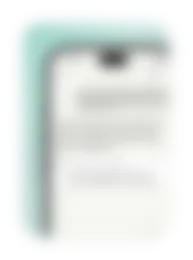
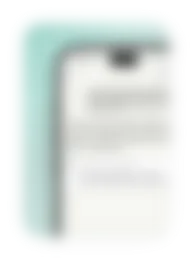
Tool Use thumbnail: the phone further right, its right curve off the cover; two swaps
Rest framing x 0.38 -> 0.31 (Khalil's pick). Progressive Blur and CMS
Generation swap (third, fourth), Change Icon and Claude Desktop swap (fifth,
sixth). Tool Use's stills redone.

Claude-Session: https://claude.ai/code/session_01KWunyGjQtk3sCnGrUXUHPS

Changed region(s): [[0.1865, 0.1538, 0.3731, 0.9231], [0.4663, 0.1846, 0.7461, 0.2769]]

diff --git a/src/content/work/research.md b/src/content/work/research.md
@@ -15,7 +15,7 @@ cover:
     mp4: images/work/research-9.mp4
     poster: images/work/research-9.jpg
     start: 29
-    rest: [0.38, 0.3, 1.6]   # thumbnail: at 0:29, the phone's top-left corner with teal around it and the Slack tool call; its right side runs off the cover
+    rest: [0.31, 0.3, 1.6]   # thumbnail: at 0:29, the phone's top-left corner with teal around it and the Slack tool call; its right side (curve too) runs off the cover
     # [seconds, x, y, zoom]: held shots on each step (typing the request, the
     # reply, each tool call, the summary), with the whole phone at the start
     # and end so the loop is seamless.

diff --git a/src/content/work/claude-desktop.md b/src/content/work/claude-desktop.md
@@ -3,7 +3,7 @@ title: Claude Desktop
 summary: Placeholder summary. Replace with a one-line description of the project.
 role: Product designer
 year: "2026"
-order: 5
+order: 6
 cover:
   aspect: 1.25   # 771 × 617: wide, for landscape footage
   shader: gradient

diff --git a/src/content/work/change-icon.md b/src/content/work/change-icon.md
@@ -3,7 +3,7 @@ title: Change Icon
 summary: Placeholder summary. Replace with a one-line description of the project.
 role: Product designer
 year: "2023"
-order: 6
+order: 5
 cover:
   aspect: 0.684   # 422 × 617, like the other phone covers
   shader: gradient

diff --git a/src/content/work/progressive-blur.md b/src/content/work/progressive-blur.md
@@ -3,7 +3,7 @@ title: Progressive Blur
 summary: Placeholder summary. Replace with a one-line description of the project.
 role: Product designer
 year: "2024"
-order: 4
+order: 3
 cover:
   aspect: 1.25   # 771 × 617: wide, for desktop
   shader: gradient

diff --git a/src/content/work/cms-generation.md b/src/content/work/cms-generation.md
@@ -3,7 +3,7 @@ title: CMS Generation
 summary: Placeholder summary. Replace with a one-line description of the project.
 role: Product designer
 year: "2025"
-order: 3
+order: 4
 cover:
   aspect: 1.25   # 771 × 617: wide, for desktop
   shader: gradient
